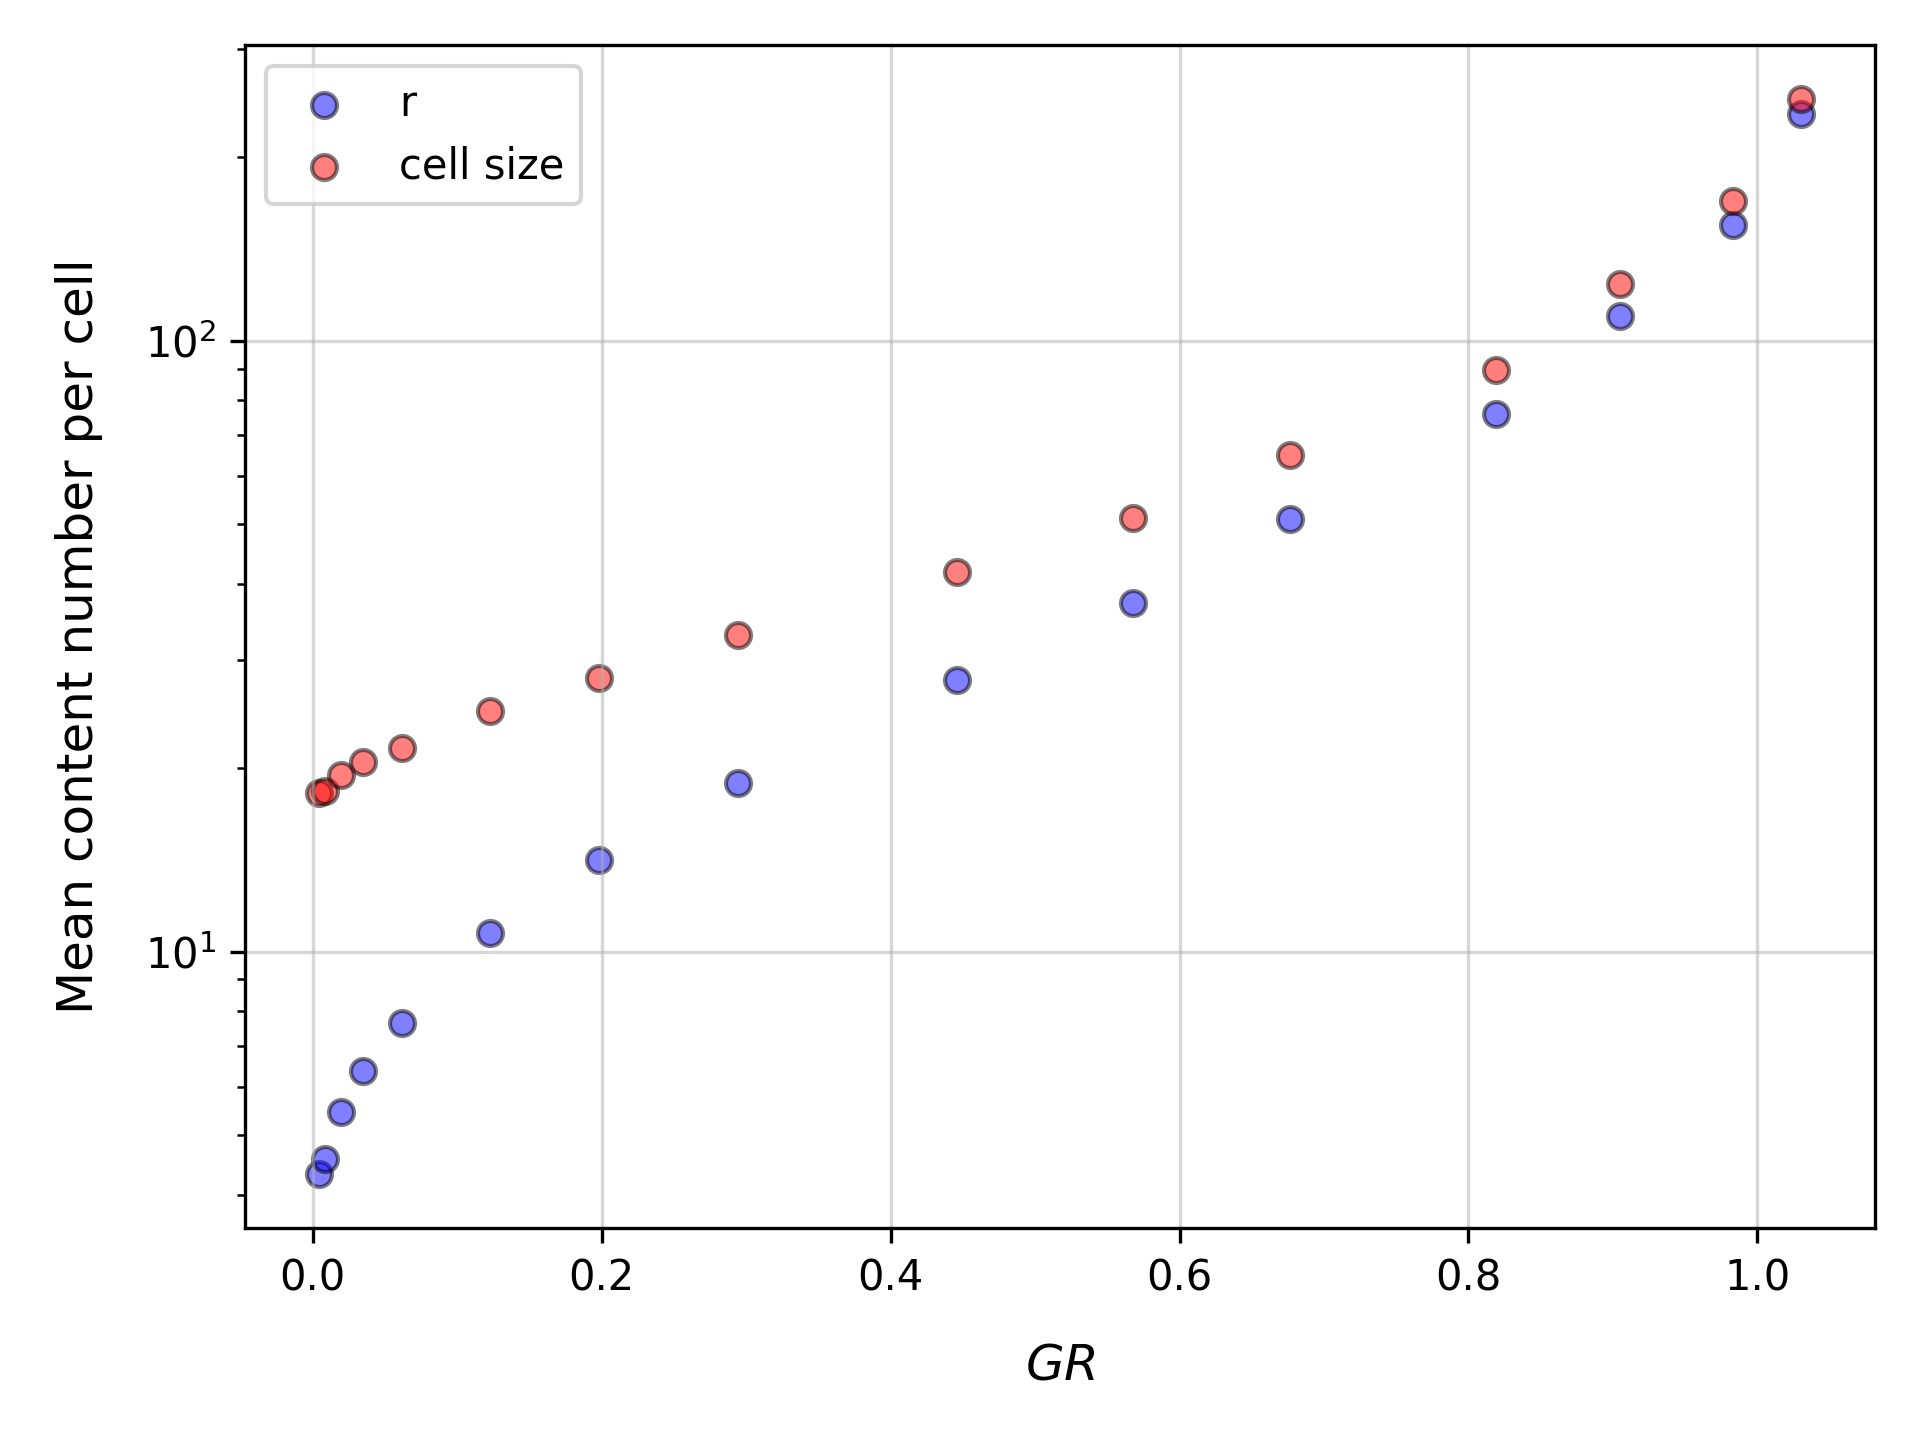
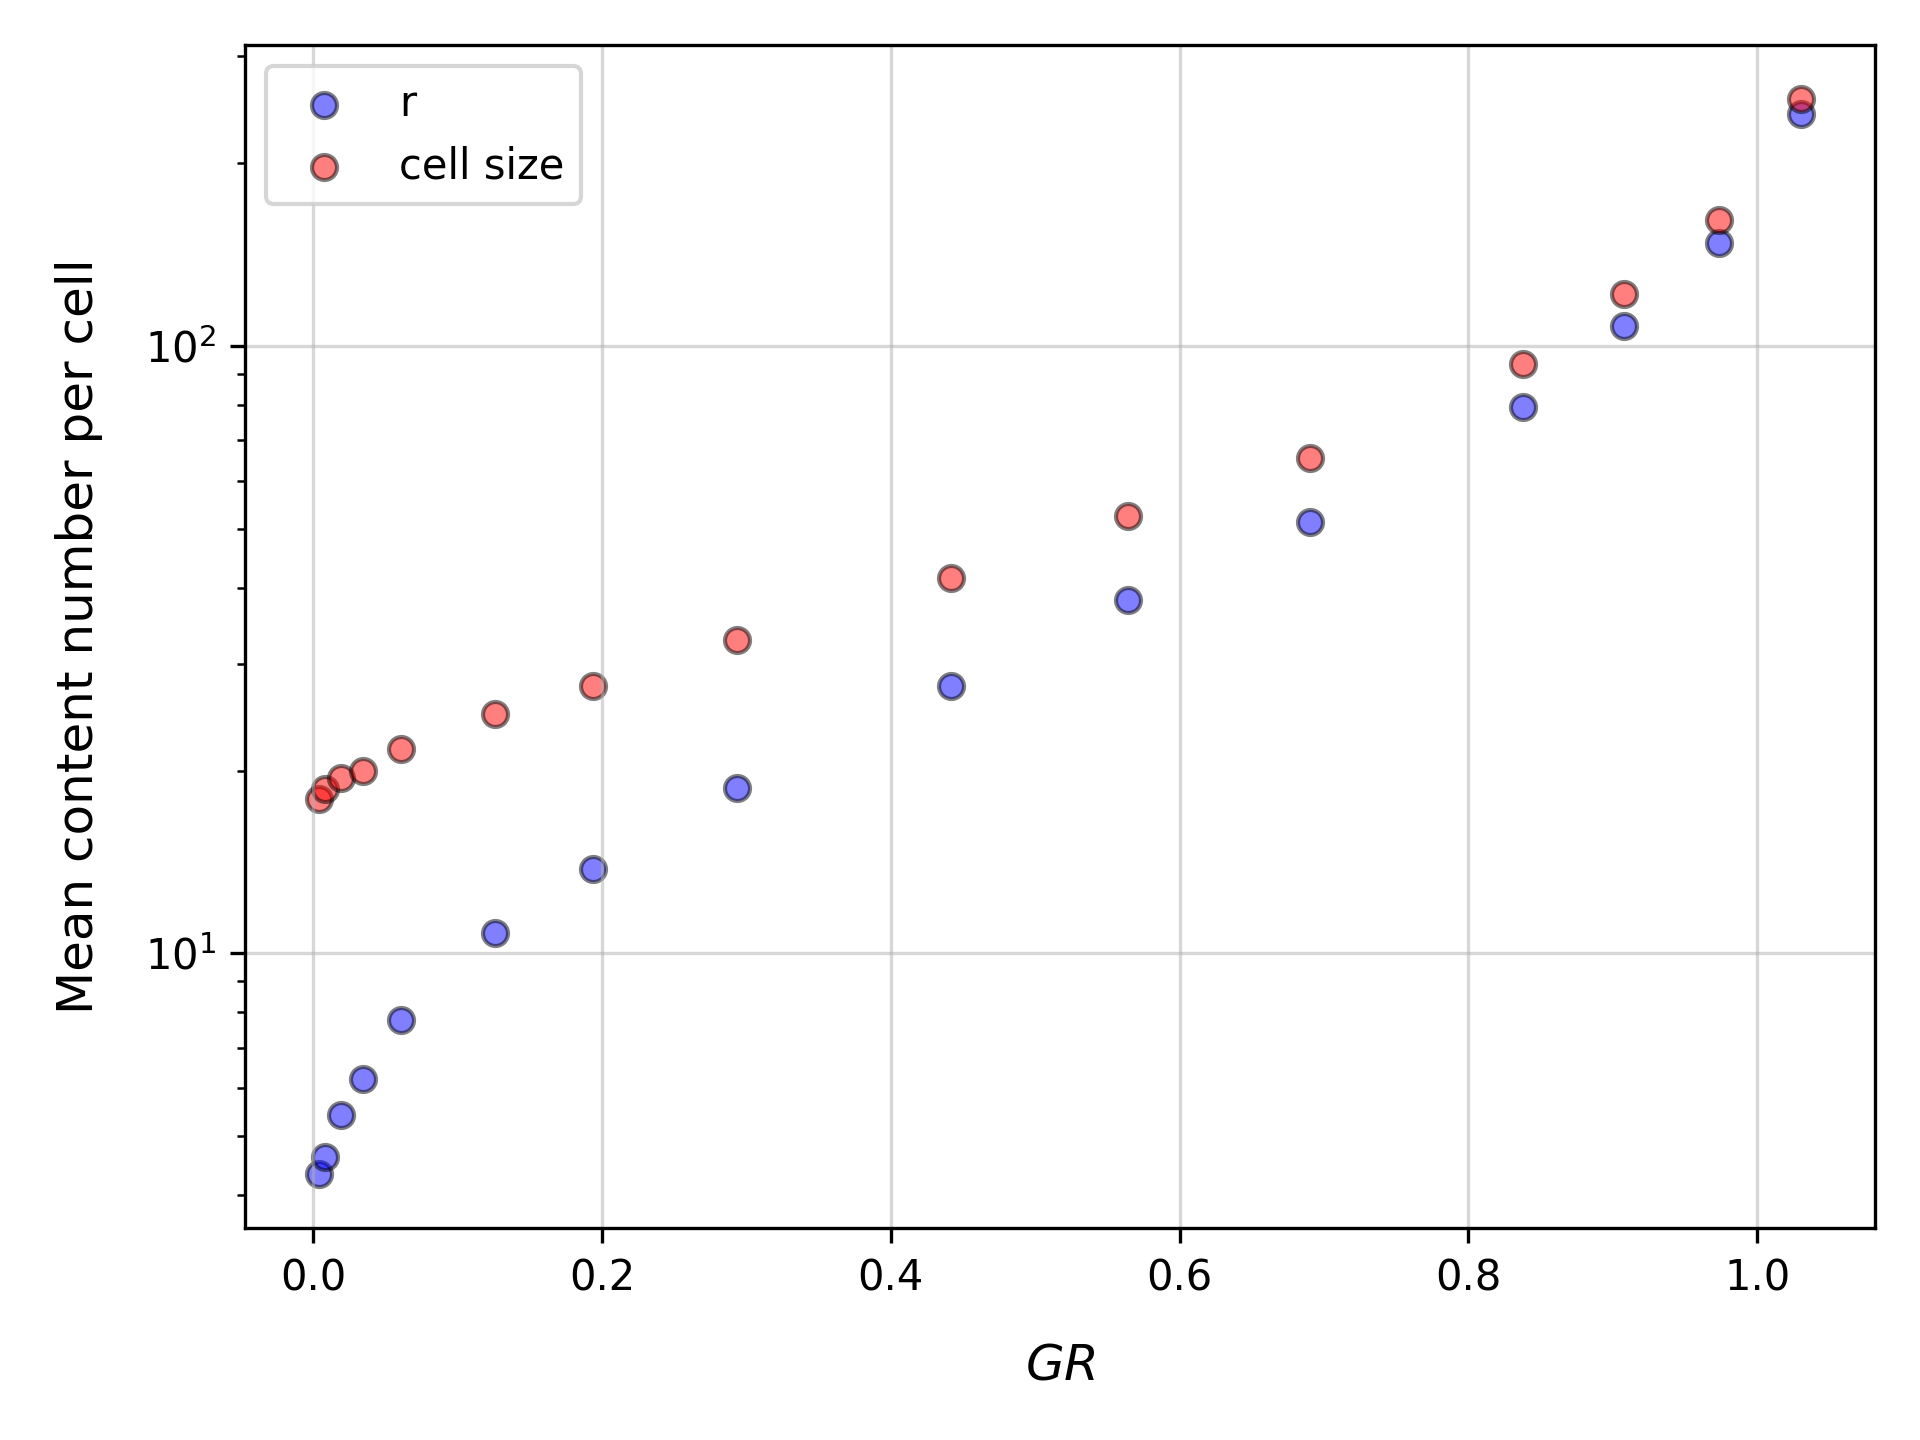
Minor bug fixes

diff --git a/resource_alloc.py b/resource_alloc.py
@@ -65,7 +65,7 @@ if __name__ == "__main__":
     import argparse
 
     parser = argparse.ArgumentParser(description="Simulate cell growth and save results to a NetCDF file.")
-    parser.add_argument("--n", type=int, default=1e4, help="Number of cells to simulate.")
+    parser.add_argument("--n", type=float, default=1e4, help="Number of cells to simulate.")
     parser.add_argument("--rpt", type=int, default=10, help="Number of repetitions for the simulation.")
 
     args = parser.parse_args()
